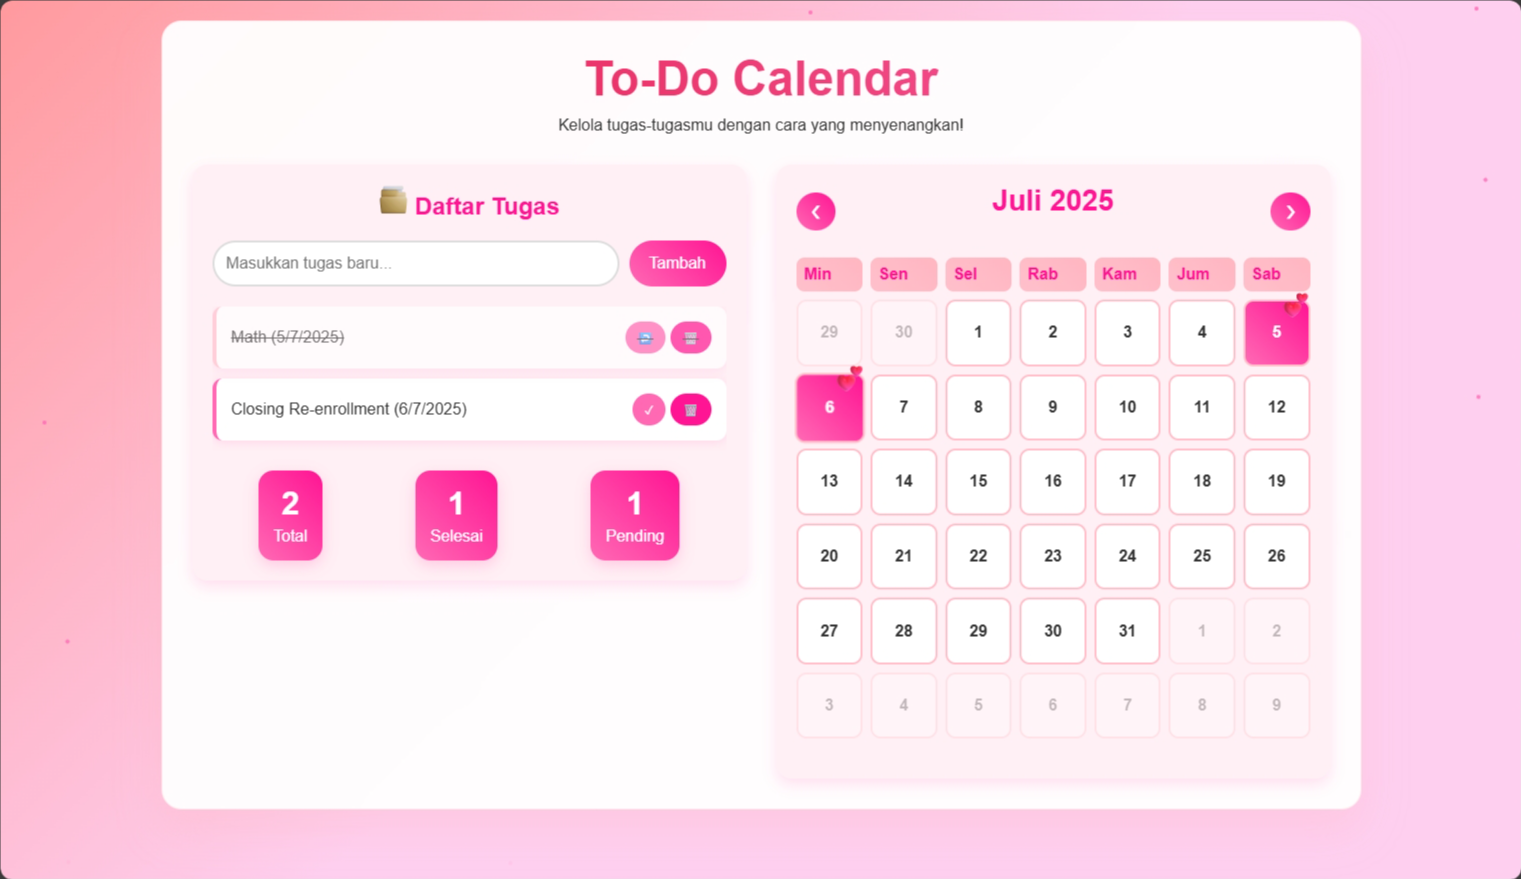
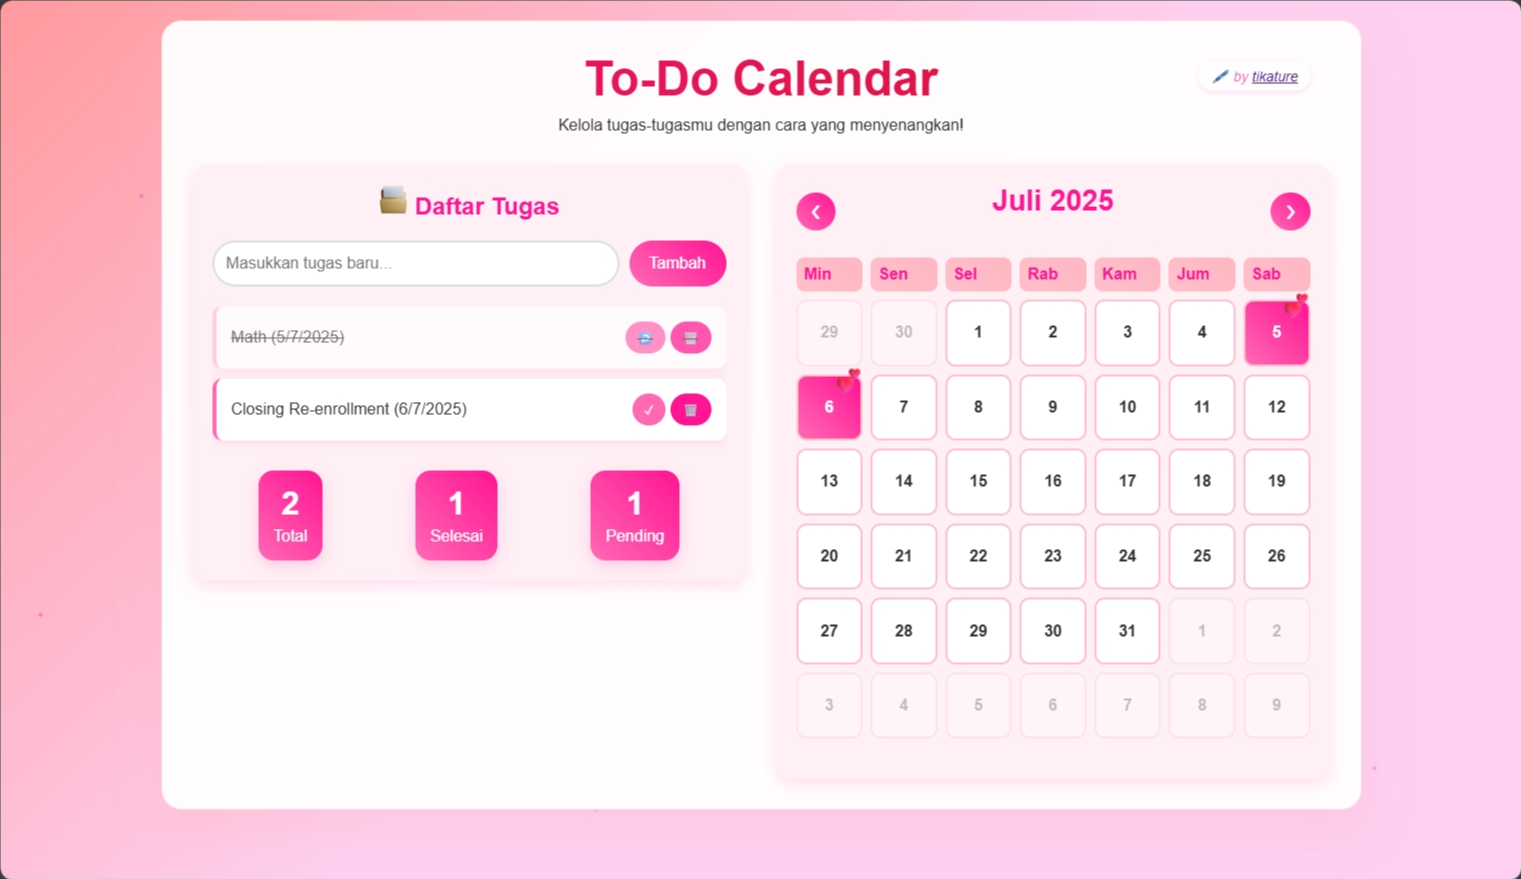
Update Content

diff --git a/style.css b/style.css
@@ -41,6 +41,26 @@ body {
     margin-bottom: 10px;
 }
 
+.author-sign {
+    position: absolute;
+    top: 10px;
+    right: 20px;
+    font-size: 14px;
+    color: #ff69b4;
+    font-style: italic;
+    font-weight: 500;
+    background-color: rgba(255, 255, 255, 0.7);
+    padding: 5px 12px;
+    border-radius: 15px;
+    box-shadow: 0 2px 6px rgba(255, 105, 180, 0.2);
+    transition: transform 0.3s ease;
+}
+
+.author-sign:hover {
+    transform: scale(1.05);
+    background-color: #fff0f5;
+}
+
 @keyframes gradientShift {
 
     0%,

diff --git a/index.html b/index.html
@@ -17,6 +17,7 @@
         <div class="header">
             <h1>To-Do Calendar</h1>
             <p>Kelola tugas-tugasmu dengan cara yang menyenangkan!</p>
+            <span class="author-sign">🖋 by <a href="https://github.com/tikature">tikature</a></span>
         </div>
 
         <div class="main-content">
